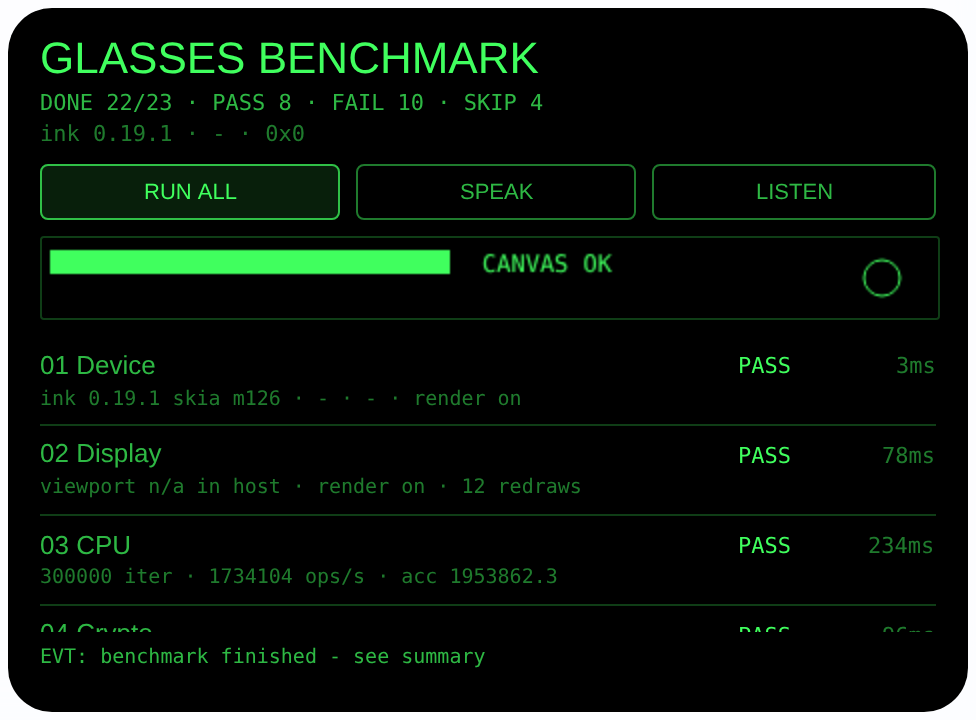
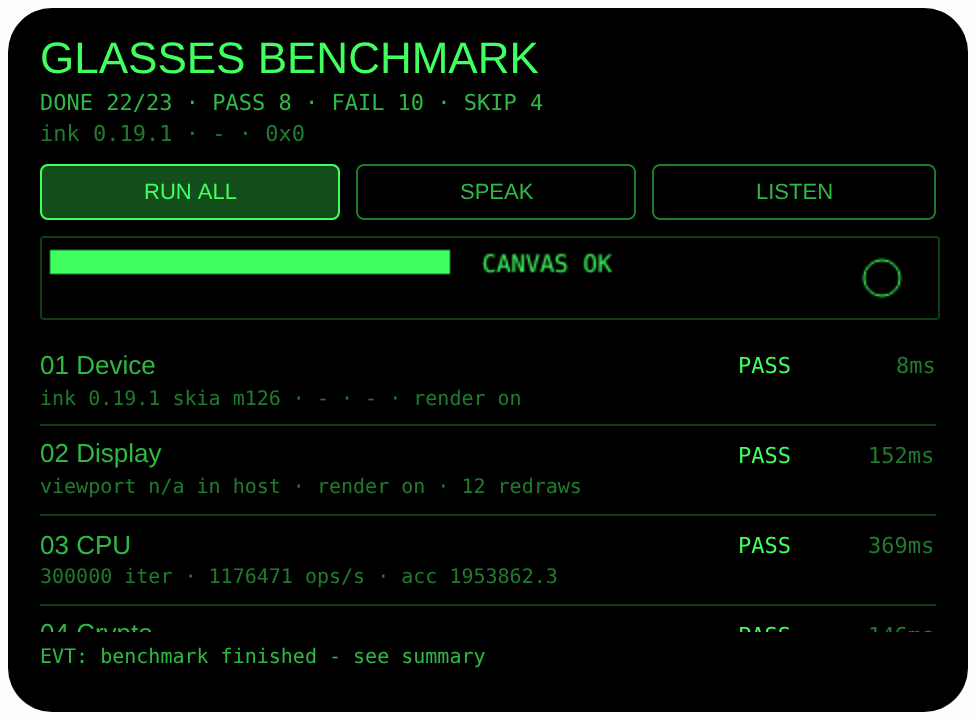
glasses-benchmark v1.1.1: temple-touch operation fix (device-test finding)
- Page now maps temple keys itself: swipe (ArrowUp/Down) moves a visible focus across RUN ALL/SPEAK/LISTEN and all 23 rows (scroll-into-view), tap (Enter/GlobalHook) or nod activates the focused item; default focus is RUN ALL
- Before: keys were only logged (EVT line + interaction test), buttons were bindtap-only and unreachable on the real glasses
- README: gesture mapping section + v1.1.1 changelog; AGENTS.md operation section; pack -> aix/glasses-benchmark.aix (16.53 KB); screenshots refreshed

diff --git a/glasses-benchmark/README.md b/glasses-benchmark/README.md
@@ -57,6 +57,19 @@
 状态：PASS / FAIL / SKIP（硬件或主机不支持、或平台无此 API）/ MANUAL（需人触发）。
 点任意一行可单独重跑该项；RUN ALL 顺序跑完 01–20 与 22–23。
 
+## 操作方式（镜腿手势映射）
+
+真机上没有触屏，全部操作走镜腿触控板（页面自己接管按键事件，不依赖宿主把按键转成按钮点击）：
+
+| 手势 | 键事件 | 作用 |
+|---|---|---|
+| 单击 | Enter / GlobalHook | 触发当前焦点；打开页面时焦点默认在 **RUN ALL**，单击即开跑全部 |
+| 滑动 | ArrowUp / ArrowDown | 在 RUN ALL / SPEAK / LISTEN / 23 个测试行之间移动焦点（高亮 + 列表自动滚到焦点行） |
+| 点头 | onHeadGesture 'nod' | 与单击相同，触发当前焦点 |
+| 双击 | Backspace | 交给系统：返回 / 退出（页面不拦截） |
+
+想单独重跑某一项：滑动把焦点移到该行，单击即可。屏幕按钮同时保留点击绑定，供 Studio 模拟器用鼠标操作。
+
 ## 打包
 
 ```bash
@@ -71,7 +84,7 @@
    在 AIX Packaging 点 **Repackage and Save**，确认顶部出现绿色
    **● Debug version ready — Ready for device debugging**
 3. **Hi Rokid**（海外版，不是国内版 Rokid Ai App）→ 设置 → 开发者选项 → AIUI → 更新眼镜资源包
-4. 对眼镜说「乐奇，打开 glasses-benchmark」，点 RUN ALL
+4. 对眼镜说「乐奇，打开 glasses-benchmark」，然后**单击镜腿**（焦点默认在 RUN ALL）即开跑；滑动可移焦点到某一行，单击单独重跑该项
 
 注意：07 Fetch 需要眼镜联网（经手机蓝牙/Wi-Fi）；14 定位、10/11 麦克风/相机
 第一次会弹系统授权，拒绝会记 FAIL 并写明原因——这正是要测的。
@@ -103,6 +116,20 @@ Tap **RUN ALL** and I'll test 23 items one by one, from display and CPU to camer
 - 状态：未齐（已有 2 张图；还需至少 1 个视频，总数补到 3–5 个后才可提交）
 
 ### Change Log
+
+#### v1.1.1（本地包版本；Studio Build 号待重新打包后生成）
+
+**Features added**
+
+- None.
+
+**Improvements**
+
+- None.
+
+**Fixes**
+
+- Real-device operation: the page previously only logged temple key events, so the RUN ALL / SPEAK / LISTEN buttons could not be operated from the temple touchpad at all. The page now maps temple input itself — swipe (ArrowUp/Down) moves a visible focus across the buttons and all 23 test rows, tap (Enter/GlobalHook) or a nod activates the focused item, and the default focus is RUN ALL, so a single tap starts the full run.
 
 #### v1.1.0（本地包版本；Studio Build 号待重新打包后生成）
 

diff --git a/glasses-benchmark/AGENTS.md b/glasses-benchmark/AGENTS.md
@@ -31,6 +31,14 @@ Rokid 眼镜全功能基准测试智能体（AIUI Agent）。
 - 交互（被动）：按键、头部手势（点头）、头部朝向稳定性、语音唤醒事件监听
 - 平台边界（恒为 SKIP，永不 PASS）：眼动追踪——平台无此 API，「凝视」=头部朝向（绝对方向传感器）+头稳+点头；OCR——平台无 OCR API，读文字的官方路径是 telephoto 拍照 + LLM 图片输入
 
+## 操作（镜腿手势优先）
+
+- 单击镜腿（Enter / GlobalHook）= 触发当前焦点，打开页面时焦点默认在 RUN ALL，单击即开跑。
+- 滑动（ArrowUp / ArrowDown）= 在 RUN ALL / SPEAK / LISTEN / 23 个测试行之间移动焦点（高亮显示，列表自动滚动到焦点行），单击焦点行即单独重跑该项。
+- 点头（onHeadGesture 'nod'）= 与单击相同，触发当前焦点。
+- 双击（Backspace）= 交给系统（返回/退出），页面不拦截。
+- 屏幕上的按钮同时保留 bindtap，供 Studio 模拟器/预览里用鼠标点击。
+
 ## 行为边界
 
 - 只做本机自检，不上传任何数据；唯一的网络请求是取 example.com 首页测延迟。
